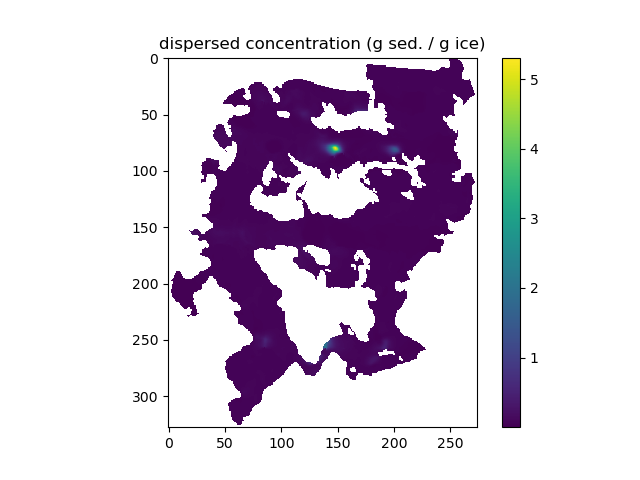
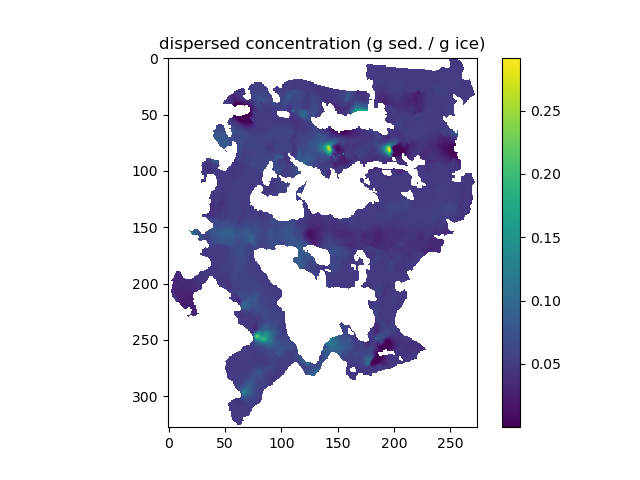
Add results from slowest advection model

diff --git a/basis/src/basis.py b/basis/src/basis.py
@@ -20,6 +20,9 @@ Example usage:
     basis.write_output('my_output_file.nc')
 
 """
+# TODO plot dt at a single point
+# TODO check fringe under icefalls
+
 
 import numpy as np
 import tomli
@@ -66,7 +69,7 @@ class BasalIceStratigrapher:
                 value = np.full(self.grid.shape, info['value'])
                 self.grid.add_field(variable, value, at = 'node')
 
-        for required in ['ice_thickness', 'sliding_velocity_x', 'sliding_velocity_y', 'basal_water_pressure']:
+        for required in ['ice_thickness', 'surface_elevation', 'sliding_velocity_x', 'sliding_velocity_y', 'basal_water_pressure']:
             if required not in self.grid.at_node.keys():
                 raise AttributeError(required + ' missing at grid nodes.')
 
@@ -133,13 +136,13 @@ class BasalIceStratigrapher:
         Us = self.grid.at_node['sliding_velocity_magnitude'][:]
 
         N_reg = np.where(
-            self.grid.at_node['ice_thickness'] > 0.5, N, np.nan
+            self.grid.at_node['ice_thickness'] > 0.5, N, 1e-9
         )
         Ut = C * N_reg
-        tau_b = N_reg * np.tan(theta) * np.float_power(Us / (Us + Ut), (1 / p))
+        tau_b = N * np.tan(theta) * np.float_power(Us / (Us + Ut), (1 / p))
         
         self.grid.at_node['basal_shear_stress'][:] = tau_b[:]
-
+        
     def calc_erosion_rate(self):
         """Calculate the erosion rate beneath the glacier (Herman et al., 2021)."""
         Ks = self.params['erosion_coefficient']
@@ -322,31 +325,34 @@ class BasalIceStratigrapher:
         Hd = self.grid.at_node['dispersed_layer_thickness'][:]
         Cd = self.grid.at_node['dispersed_concentration'][:]
         
-        # TODO upwind with surface elevation
-        # TODO plot dt at a single point
-        # TODO check fringe under icefalls
-        ux_links = self.grid.map_mean_of_link_nodes_to_link(ux)
-        uy_links = self.grid.map_mean_of_link_nodes_to_link(uy)
-        Hf_links = self.grid.map_value_at_max_node_to_link('fringe_thickness', 'fringe_thickness'),
-        Hd_links = self.grid.map_value_at_max_node_to_link('dispersed_layer_thickness', 'dispersed_layer_thickness')
-        Cd_links = self.grid.map_value_at_max_node_to_link('dispersed_concentration', 'dispersed_concentration')
+        ux_links = self.grid.map_value_at_max_node_to_link('surface_elevation', 'sliding_velocity_x'),
+        uy_links = self.grid.map_value_at_max_node_to_link('surface_elevation', 'sliding_velocity_y'),
+        Hf_links = self.grid.map_value_at_max_node_to_link('surface_elevation', 'fringe_thickness'),
+        Hd_links = self.grid.map_value_at_max_node_to_link('surface_elevation', 'dispersed_layer_thickness')
+        Cd_links = self.grid.map_value_at_max_node_to_link('surface_elevation', 'dispersed_concentration')
 
-        grad_ux = self.grid.calc_grad_at_link(ux)
-        grad_uy = self.grid.calc_grad_at_link(uy)
-        grad_Hf = self.grid.calc_grad_at_link(Hf)
-        grad_Hd = self.grid.calc_grad_at_link(Hd)
-        grad_Cd = self.grid.calc_grad_at_link(Cd)
+        ux_dx = self.grid.calc_diff_at_link(ux) / self.grid.dx
+        uy_dy = self.grid.calc_diff_at_link(uy) / self.grid.dy
+
+        Hf_dx = self.grid.calc_diff_at_link(Hf) / self.grid.dx
+        Hf_dy = self.grid.calc_diff_at_link(Hf) / self.grid.dy
+
+        Hd_dx = self.grid.calc_diff_at_link(Hd) / self.grid.dx
+        Hd_dy = self.grid.calc_diff_at_link(Hd) / self.grid.dy
+
+        Cd_dx = self.grid.calc_diff_at_link(Cd) / self.grid.dx
+        Cd_dy = self.grid.calc_diff_at_link(Cd) / self.grid.dy
 
         advect_Hf = self.grid.map_mean_of_links_to_node(
-            (ux_links * grad_Hf + uy_links * grad_Hf + Hf_links * grad_ux + Hf_links * grad_uy) * dt
+            (Hf_links * ux_dx + Hf_links * uy_dy + ux_links * Hf_dx + uy_links * Hf_dy) * dt
         )
 
         advect_Hd = self.grid.map_mean_of_links_to_node(
-            (ux_links * grad_Hd + uy_links * grad_Hd + Hd_links * grad_ux + Hd_links * grad_uy) * dt
+            (Hd_links * ux_dx + Hd_links * uy_dy + ux_links * Hd_dx + uy_links * Hd_dy) * dt
         )
 
         advect_Cd = self.grid.map_mean_of_links_to_node(
-            (ux_links * grad_Cd + uy_links * grad_Cd + Cd_links * grad_ux + Cd_links * grad_uy) * dt
+            (Cd_links * ux_dx + Cd_links * uy_dy + ux_links * Cd_dx + uy_links * Cd_dy) * dt
         )
 
         Hf[:] -= advect_Hf[:]

diff --git a/experiments/static-effective-pressure/experiment.py b/experiments/static-effective-pressure/experiment.py
@@ -57,8 +57,8 @@ BIS.plot_var(
     units_label='m'
 )
 
-for t in range(500):
-    dt = 0.01 * BIS.sec_per_a
+for t in range(20000):
+    dt = 0.0001 * BIS.sec_per_a
     BIS.run_one_step(dt, advect=True)
 
     if t % 1000 == 0:
@@ -98,7 +98,7 @@ BIS.plot_var(
     'fringe_growth_rate', working_dir + '/outputs/dHf_dt.png', 
     units_label='m/a',
     scalar=BIS.sec_per_a,
-    imshow_args={'vmin': 0, 'vmax': np.percentile(BIS.grid.at_node['fringe_growth_rate'][:], 99)}
+    imshow_args={'vmin': 0}
 )
 
 var = BIS.grid.map_mean_of_links_to_node(BIS.grid.calc_grad_at_link('dispersed_layer_thickness'))
